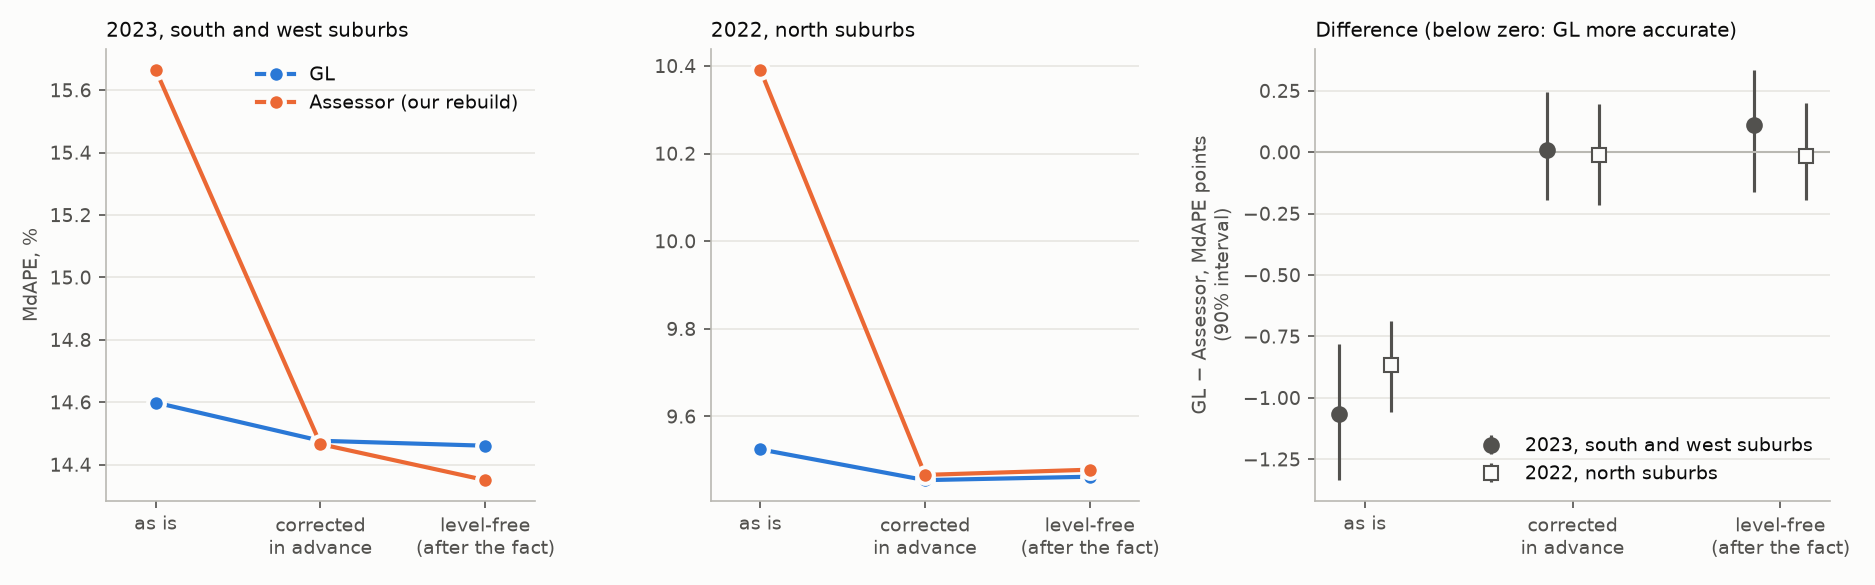
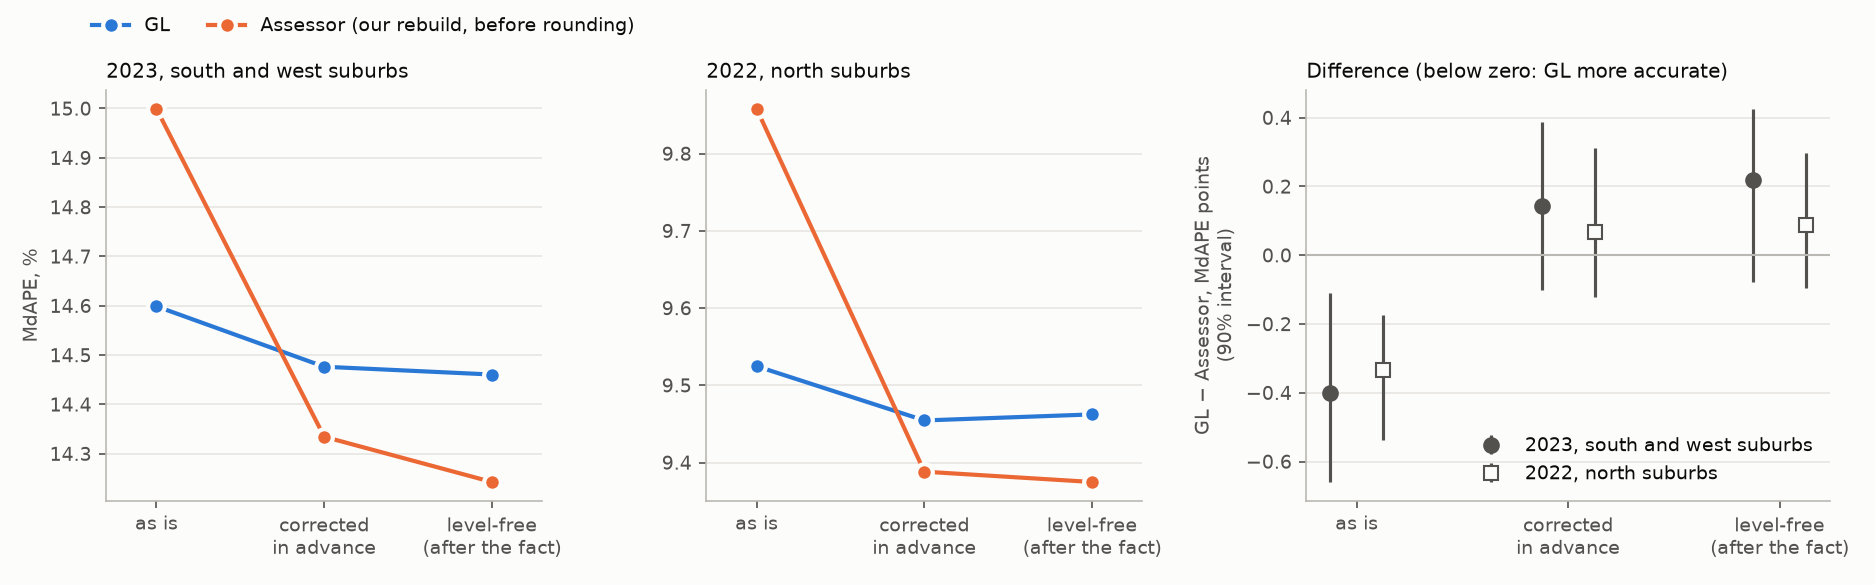
1 January figures before rounding; a table of the tests before the results; captions

diff --git a/scripts/v2/readme_figures.py b/scripts/v2/readme_figures.py
@@ -6,8 +6,18 @@
                        public/runs/v2/p7_eval/ratio_all_primary.json and p8_eval/ratio_all_primary.json)
 
 Usage (repo root): .venv/bin/python -I public/scripts/v2/readme_figures.py [--structure]
---structure: from the published model P (public/runs/v2/struct_eval/chosen/: ratio_<year>_primary.json and
-d38/summary.json); the README uses these.
+--structure: from the published model P (public/runs/v2/struct_eval/chosen/); the README uses these. The three
+1 January figures compare GL with the Assessor's model output before rounding (`pred_pin_final_fmv`, as the README
+table), from d72_unrounded.py's ratio studies (chosen/d72/ratio_<year>_primary.json, models gl, assfin, gladv,
+assfinadv):
+  accuracy_level.png   as is (gl, assfin), corrected in advance with time-adjusted October-December prices (gladv,
+                       assfinadv) and level-free (median-centred, as p7b_centred.py, computed here on the same
+                       resamples, rebuilt by p7b_centred.rebuild and checked against the study's saved MdAPE draws)
+  by_township.png      the stored pair gl-assfin per township
+  price_deciles.png    median ratio by decile of the time-adjusted price, as equity_eval.py (same cut points, same
+                       resamples): GL, the Assessor's model before rounding, and the Assessor's published values,
+                       which exist only rounded (shown for reference); GL and published reproduce the stored
+                       chosen/equity/deciles_<year>.csv (to 1e-12, the CSV round trip)
 """
 import json
 import shutil
@@ -18,10 +28,14 @@ from pathlib import Path
 import matplotlib
 matplotlib.use("Agg")
 import matplotlib.pyplot as plt
+import numpy as np
+import pandas as pd
 
 REPO = Path(__file__).resolve().parents[3]
+sys.path.insert(0, str(REPO / "public/scripts/v2"))
+from p7b_centred import centred, rebuild, table  # noqa: E402
 FIG = REPO / "public/figures"
-BLUE, INK, INK2, MUTED, SURFACE = "#2a78d6", "#0b0b0b", "#52514e", "#b9b8b2", "#fcfcfb"
+BLUE, ORANGE, GREEN, INK, INK2, MUTED, SURFACE = "#2a78d6", "#eb6834", "#1baf7a", "#0b0b0b", "#52514e", "#b9b8b2", "#fcfcfb"
 NAMES = {"10": "Barrington", "11": "Berwyn", "12": "Bloom", "13": "Bremen", "14": "Calumet", "15": "Cicero",
          "16": "Elk Grove", "17": "Evanston", "18": "Hanover", "19": "Lemont", "20": "Leyden", "21": "Lyons",
          "22": "Maine", "23": "New Trier", "24": "Niles", "25": "Northfield", "26": "Norwood Park",
@@ -30,21 +44,37 @@ NAMES = {"10": "Barrington", "11": "Berwyn", "12": "Bloom", "13": "Bremen", "14"
          "38": "Wheeling", "39": "Worth"}
 STRUCT = "--structure" in sys.argv
 DAGGER = {"12", "37"}  # our rebuild of the Assessor's 2023 values differs most from the published values here
+D72 = REPO / "public/runs/v2/struct_eval/chosen/d72"
+EQ = REPO / "public/runs/v2/struct_eval/chosen/equity"
+YEARS = [("2023", "2023, south and west suburbs"), ("2022", "2022, north suburbs")]
+ASS = "Assessor (our rebuild, before rounding)"
+
+
+def study(y):
+    """d72's unrounded ratio study for year y, its evaluation table, values and resamples (checked against its draws)."""
+    cfg = json.loads((D72 / f"ratio_{y}_primary.json").read_text())
+    ev, P, V, boots = rebuild(cfg)
+    saved = np.load(D72 / f"ratio_{y}_primary.boot.npz")
+    for n in ["gl", "assfin"]:
+        mine = np.array([100 * np.median(np.abs(V[n][b] - P[b]) / P[b]) for b in boots])
+        assert np.array_equal(mine, saved[f"{n}:mdape"]), (y, n)
+    return cfg, ev, P, V, boots
 
 
 def by_township():
     studies = [("2023, south and west suburbs", "public/runs/v2/p7_eval/ratio_all_primary.json"),
                ("2022, north suburbs", "public/runs/v2/p8_eval/ratio_all_primary.json")]
+    pair = "gl-assessor"
     if STRUCT:
-        studies = [(t, f"public/runs/v2/struct_eval/chosen/ratio_{y}_primary.json")
-                   for (t, _), y in zip(studies, ["2023", "2022"])]
+        studies = [(t, f"public/runs/v2/struct_eval/chosen/d72/ratio_{y}_primary.json") for y, t in YEARS]
+        pair = "gl-assfin"
     fig, axes = plt.subplots(1, 2, figsize=(11, 6.2), gridspec_kw=dict(height_ratios=[1]))
     for a, (title, path) in zip(axes, studies):
         r = json.loads((REPO / path).read_text())
-        rows = [(t, v["n"], v["pairs"]["gl-assessor"]["mdape"]) for t, v in r["by_town"].items()]
+        rows = [(t, v["n"], v["pairs"][pair]["mdape"]) for t, v in r["by_town"].items()]
         rows.sort(key=lambda x: -x[2]["point"])
         o = r["overall"]
-        rows.append(("all", o["n"], o["pairs"]["gl-assessor"]["mdape"]))
+        rows.append(("all", o["n"], o["pairs"][pair]["mdape"]))
         for i, (t, n, d) in enumerate(rows):
             y = i + (1 if t == "all" else 0)
             col = INK if t == "all" else BLUE
@@ -53,17 +83,112 @@ def by_township():
         labels = [f"{NAMES.get(t, 'all townships')}{' †' if t in DAGGER else ''} ({n:,})" for t, n, _ in rows]
         a.set_yticks([i + (1 if t == "all" else 0) for i, (t, _, _) in enumerate(rows)], labels)
         a.axvline(0, color=MUTED, lw=1)
-        a.set_xlim(-5, 9)
+        a.set_xlim(-5, 10.5 if STRUCT else 9)
         a.set_title(title, fontsize=10, loc="left")
         a.set_xlabel("GL − Assessor (our rebuild), MdAPE points (90% interval)\nbelow zero: GL more accurate")
         a.grid(axis="x", color="#e7e6e1", lw=0.8)
         a.spines[["top", "right", "left"]].set_visible(False)
         a.tick_params(axis="y", length=0)
-    fig.text(0.01, 0.005, "Number of sales in brackets. † Our rebuild of the Assessor's model differs most from its "
+    fig.text(0.01, 0.005, ("Both models' values before rounding. " if STRUCT else "") + "Number of sales in brackets. † Our rebuild of the Assessor's model differs most from its "
              "published values in Bloom and Thornton.",
              fontsize=8, color=INK2)
     fig.tight_layout(rect=(0, 0.03, 1, 1))
     fig.savefig(FIG / "by_township.png", dpi=150)
+
+
+def accuracy_level(data):
+    """MdAPE as is, corrected in advance and level-free, GL against the Assessor's model before rounding."""
+    versions = [("as is", "gl", "assfin"), ("corrected\nin advance", "gladv", "assfinadv"),
+                ("level-free\n(after the fact)", None, None)]
+    res = {}
+    for y, _ in YEARS:
+        cfg, ev, P, V, boots = data[y]
+        o = json.loads((D72 / f"ratio_{y}_primary.json").read_text())["overall"]
+        lf, _ = table(np.ones(len(ev), bool), P, {"gl": V["gl"], "assessor": V["assfin"]}, boots, centred)
+        res[y] = [(o["models"][g]["mdape"]["point"], o["models"][a]["mdape"]["point"], o["pairs"][f"{g}-{a}"]["mdape"])
+                  for _, g, a in versions[:2]] + [(lf["models"]["gl"]["point"], lf["models"]["assessor"]["point"],
+                                                   lf["gl-assessor"])]
+        print(f"  {y} level-free MdAPE: GL {res[y][2][0]:.2f}, rebuild {res[y][2][1]:.2f}, "
+              f"difference {lf['gl-assessor']['point']:+.2f} [{lf['gl-assessor']['lo90']:+.2f}, "
+              f"{lf['gl-assessor']['hi90']:+.2f}]", flush=True)
+    fig, ax = plt.subplots(1, 3, figsize=(12.5, 3.9), gridspec_kw=dict(width_ratios=[1, 1, 1.2]))
+    for k, (y, title) in enumerate(YEARS):
+        a = ax[k]
+        for j, col, lab in [(0, BLUE, "GL"), (1, ORANGE, ASS)]:
+            a.plot(range(3), [r[j] for r in res[y]], color=col, lw=2, marker="o", ms=8, mec=SURFACE, mew=2, label=lab)
+        a.set_xticks(range(3), [v[0] for v in versions])
+        a.set_title(title, fontsize=9.5, loc="left")
+        a.set_ylabel("MdAPE, %" if k == 0 else "")
+        a.grid(axis="y", color="#e7e6e1", lw=0.8)
+        a.spines[["top", "right"]].set_visible(False)
+        a.set_xlim(-0.3, 2.3)
+    fig.legend(*ax[0].get_legend_handles_labels(), frameon=False, ncol=2, loc="upper left", bbox_to_anchor=(0.04, 1.0))
+    a = ax[2]
+    for k, (y, title) in enumerate(YEARS):
+        for j in range(3):
+            d = res[y][j][2]
+            a.errorbar(j + (k - 0.5) * 0.25, d["point"], yerr=[[d["point"] - d["lo90"]], [d["hi90"] - d["point"]]],
+                       fmt="o" if k == 0 else "s", color=INK2, ms=7, mfc=SURFACE if k else INK2, lw=1.5, capsize=0,
+                       label=title if j == 0 else None)
+    a.axhline(0, color=MUTED, lw=1)
+    a.set_xticks(range(3), [v[0] for v in versions])
+    a.set_ylabel("GL − Assessor, MdAPE points\n(90% interval)")
+    a.set_title("Difference (below zero: GL more accurate)", fontsize=9.5, loc="left")
+    a.spines[["top", "right"]].set_visible(False)
+    a.grid(axis="y", color="#e7e6e1", lw=0.8)
+    a.legend(frameon=False, loc="lower right")
+    fig.tight_layout(rect=(0, 0, 1, 0.93))
+    fig.savefig(FIG / "accuracy_level.png", dpi=150)
+
+
+def price_deciles(data):
+    """Median ratio by sale-price decile: GL, the Assessor's model before rounding, published values (rounded)."""
+    series = [("gl", "GL", BLUE, "o"), ("assfin", ASS, ORANGE, "s"),
+              ("published", "Assessor, published (rounded)", GREEN, "^")]
+    fig, axes = plt.subplots(1, 2, figsize=(11, 4.6), sharey=True)
+    top = 1.60
+    for ax, (y, title) in zip(axes, YEARS):
+        cfg, ev, P, V, boots = data[y]
+        pub = pd.read_parquet(EQ / f"values_{y}_published.parquet").set_index("meta_pin")["value"]
+        vals = {"gl": V["gl"], "assfin": V["assfin"], "published": ev["meta_pin"].map(pub).astype(float).to_numpy()}
+        assert not np.isnan(vals["published"]).any(), y
+        cuts = np.quantile(P, np.linspace(0, 1, 11))
+        dec = np.clip(np.searchsorted(cuts, P, side="right") - 1, 0, 9)
+        rows = []
+        for k in range(10):
+            sel = dec == k
+            row = dict(decile=k + 1, price_median=float(np.median(P[sel])))
+            for m, v in vals.items():
+                r = v / P
+                bs = [np.median(r[b][sel[b]]) for b in boots]
+                row[m] = (float(np.median(r[sel])), float(np.quantile(bs, 0.05)), float(np.quantile(bs, 0.95)))
+            rows.append(row)
+        old = pd.read_csv(EQ / f"deciles_{y}.csv")   # equity_eval.py: same keys, cut points and resamples
+        for m in ["gl", "published"]:
+            got = np.array([r[m] for r in rows])
+            ref = old[[f"{m}_median_ratio", f"{m}_lo90", f"{m}_hi90"]].to_numpy()
+            assert np.allclose(got, ref, rtol=0, atol=1e-12), (y, m)
+        x = np.array([r["decile"] for r in rows])
+        ax.axhspan(0.90, 1.10, color="#e9e8e4", zorder=0, label="IAAO level range 0.90–1.10")
+        ax.axhline(1.0, color="#6b6a64", lw=1, zorder=1)
+        for i, (m, lab, col, mk) in enumerate(series):
+            mid, lo, hi = (np.array([r[m][j] for r in rows]) for j in range(3))
+            top = max(top, hi.max() + 0.02)
+            ax.errorbar(x + (i - 1) * 0.12, mid, yerr=[mid - lo, hi - mid], color=col, marker=mk, ms=6, lw=2,
+                        elinewidth=1, capsize=0, label=lab, zorder=3)
+        ax.set_xticks(x)
+        ax.set_xticklabels([f"{r['decile']}\n${r['price_median'] / 1000:,.0f}k" for r in rows], fontsize=8)
+        ax.set_xlabel("sale-price decile (median time-adjusted price)", fontsize=9)
+        ax.set_title(f"{title} ({len(P):,} sales)", fontsize=10)
+        ax.grid(axis="y", color="#e9e8e4", lw=0.6)
+        ax.spines[["top", "right"]].set_visible(False)
+    axes[0].set_ylabel("median ratio (value ÷ time-adjusted price)", fontsize=9)
+    axes[0].set_ylim(0.80, top)
+    axes[1].legend(fontsize=8, frameon=False, loc="upper right")
+    fig.suptitle("Cheaper homes are valued relatively higher by all three: median ratio by sale-price decile "
+                 "(90% intervals)", fontsize=10)
+    fig.tight_layout()
+    fig.savefig(FIG / "price_deciles.png", dpi=150)
 
 
 def main():
@@ -71,10 +196,14 @@ def main():
     plt.rcParams.update({"font.size": 9, "axes.edgecolor": MUTED, "axes.labelcolor": INK2, "xtick.color": INK2,
                          "ytick.color": INK2, "text.color": INK, "figure.facecolor": SURFACE, "axes.facecolor": SURFACE})
     by_township()
-    subprocess.run([str(REPO / ".venv/bin/python"), "-I", str(REPO / "public/scripts/v2/d38_report.py")]
-                   + (["--structure"] if STRUCT else []), check=True)
-    shutil.copyfile(REPO / "notes/v2/figures" / ("structure_d38_level.png" if STRUCT else "d38_level.png"),
-                    FIG / "accuracy_level.png")
+    if STRUCT:   # the 1 January figures before rounding (by_township above, these two from d72's studies)
+        data = {y: study(y) for y, _ in YEARS}
+        accuracy_level(data)
+        price_deciles(data)
+        print("wrote public/figures/by_township.png, accuracy_level.png, price_deciles.png")
+        return
+    subprocess.run([str(REPO / ".venv/bin/python"), "-I", str(REPO / "public/scripts/v2/d38_report.py")], check=True)
+    shutil.copyfile(REPO / "notes/v2/figures/d38_level.png", FIG / "accuracy_level.png")
     print("wrote public/figures/by_township.png, accuracy_level.png")
 
 

diff --git a/README.md b/README.md
@@ -62,6 +62,14 @@ We compare GL with the Assessor’s model in two settings: predicting later sale
 
 **In valuing homes at 1 January, the GL values sit at the right overall level and the Assessor’s about 3–4% low, which makes the GL somewhat more accurate than our rebuild of the Assessor’s model, by 0.3–0.4 percentage points when both are compared before rounding.** Once each model’s level is corrected in advance, there is no clear difference in typical error.
 
+### The tests
+
+| Test | What is valued | Training sales | Evaluation sales | Number of evaluation sales | Townships | Compared with |
+|---|---|---|---|---:|---|---|
+| Sale prediction, whole county | The price of each later sale, at its own month | January 2016 – 20 October 2023 | 20 October 2023 – 27 December 2024 | 38,177 | All 38: Chicago’s 8 and the 30 suburban | The Assessor’s 2025 model, trained on the same sales |
+| 1 January assessment, 2023 | Every eligible home at 1 January 2023 (336,532 homes) | 2014–2022 | January – December 2023, prices adjusted to 1 January | 11,356 | 17 south and west suburban | Our rebuild of the Assessor’s 2023 model, before rounding |
+| 1 January assessment, 2022 | Every eligible home at 1 January 2022 (280,424 homes) | 2013–2021 | January – December 2022, prices adjusted to 1 January | 10,825 | 13 north suburban | Our rebuild of the Assessor’s 2022 model, before rounding |
+
 ### Results at a glance
 
 - **MdAPE (median absolute percentage error):** the typical absolute gap between value and sale price, as a percentage of price; lower is better.
@@ -115,7 +123,7 @@ The two models do not use the same information. Both receive each home’s chara
 
 An assessor must value every home on the roll at a fixed date, 1 January in Cook County, before the year’s sales are known. We value the same homes (single-family houses, two- to six-flat buildings and town houses) at the same date, from the same published training data, as the Assessor’s model, and check both against sales later in the year. Our benchmark is our rebuild of the Assessor’s model from its public code and data; the values the Assessor published are compared in the details below.
 
-**As delivered, the GL values are somewhat more accurate than our rebuild of the Assessor’s model in both years.** Comparing both models’ values before rounding, their typical error is lower by 0.3–0.4 percentage points: 14.60% against 15.00% in 2023 (difference −0.40 points, 90% interval −0.66 to −0.11) and 9.52% against 9.86% in 2022 (−0.33, −0.54 to −0.18). The Assessor rounds its values down; with both models’ values rounded that way, the differences are −0.72 and −0.65 points (details below). What an assessor looks for:
+**As delivered, the GL values are somewhat more accurate than our rebuild of the Assessor’s model in both years.** Comparing both models’ values before rounding, their typical error is lower by 0.3–0.4 percentage points: 14.60% against 15.00% in 2023 (difference −0.40 points, 90% interval −0.66 to −0.11) and 9.52% against 9.86% in 2022 (−0.33, −0.54 to −0.17). The Assessor rounds its values down; with both models’ values rounded that way, the differences are −0.72 and −0.65 points (details below). What an assessor looks for:
 
 - **Level:** the GL values are at the right overall level (median ratio 0.99); our rebuild of the Assessor’s values is about 3–4% low before rounding (0.96–0.97) and about 5% low after it (0.94–0.95).
 - **Uniformity:** the GL values are slightly more uniform (COD lower by 0.8 points in 2023 and 0.2 in 2022).
@@ -199,7 +207,7 @@ The level correction of Part 2 comes in two versions. The one quoted there uses 
 
 ![Typical error before and after level correction](figures/accuracy_level.png)
 
-<p align="center"><sub>This figure still compares GL with the rebuild’s rounded values (the comparison used before 22 October 2026); it has not yet been redrawn with unrounded values.</sub></p>
+<p align="center"><sub>Typical error of GL and of our rebuild of the Assessor’s model, both before rounding: as delivered, corrected in advance (October–December prices time-adjusted) and level-free (after the fact). Right: GL minus rebuild, with 90% intervals; level-free, +0.22 points [−0.08, +0.43] in 2023 and +0.09 [−0.10, +0.30] in 2022.</sub></p>
 
 ### Model details
 
@@ -295,7 +303,7 @@ The IAAO’s *Standard on Ratio Studies* (2013) suggests a COD of 5.0–15.0 for
 
 ![Median ratio by sale-price decile](figures/price_deciles.png)
 
-<p align="center"><sub>This figure still compares GL with the rebuild’s rounded values (the comparison used before 22 October 2026); it has not yet been redrawn with unrounded values.</sub></p>
+<p align="center"><sub>Median ratio by decile of the time-adjusted sale price, with 90% intervals, for GL and our rebuild of the Assessor’s model, both before rounding, and for the Assessor’s published values, which exist only rounded down and are shown for reference.</sub></p>
 
 Grouping by sale price can exaggerate apparent regressivity because a home that happens to sell cheaply has both a low price and a high ratio. PRB is less affected because of its proxy. The shaded 0.90–1.10 band is IAAO guidance for overall appraisal level, shown for reference, rather than a standard for price groups.
 
@@ -307,7 +315,7 @@ Some townships favour the Assessor’s model, including Oak Park, where GL’s M
 
 ![GL minus rebuilt Assessor results by township](figures/by_township.png)
 
-<p align="center"><sub>This figure still compares GL with the rebuild’s rounded values (the comparison used before 22 October 2026); it has not yet been redrawn with unrounded values.</sub></p>
+<p align="center"><sub>GL minus our rebuild of the Assessor’s model, MdAPE by township, both before rounding, with pointwise 90% intervals; townships ordered by the difference.</sub></p>
 
 ### 1 January tests: published values and the rebuild
 
